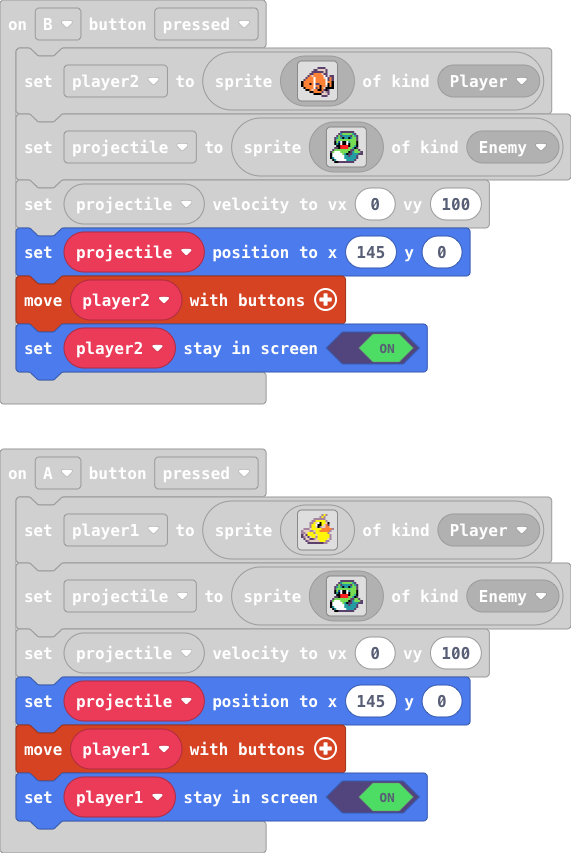
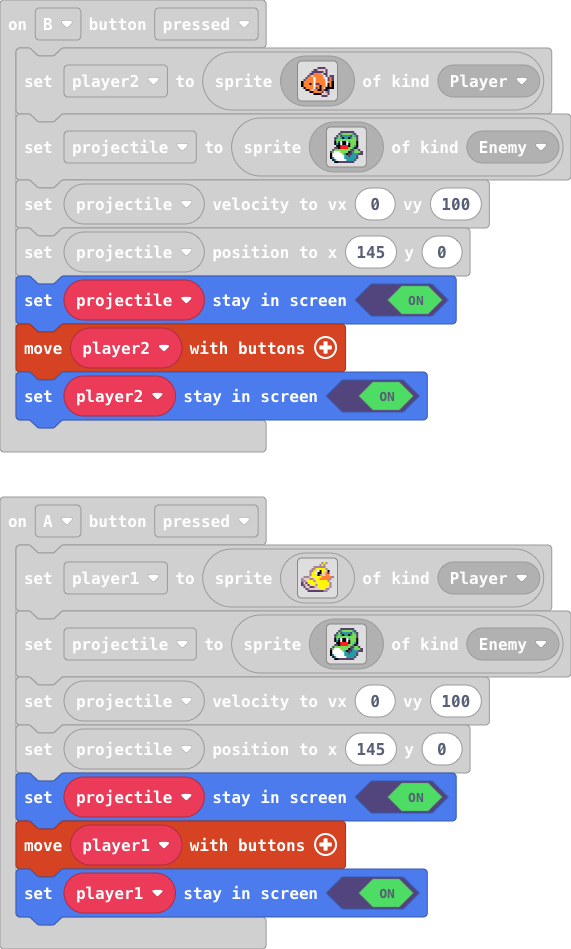
set projectile stay on screen

diff --git a/main.ts b/main.ts
@@ -37,6 +37,7 @@ controller.B.onEvent(ControllerButtonEvent.Pressed, function () {
         `, SpriteKind.Enemy)
     projectile.setVelocity(0, 100)
     projectile.setPosition(145, 0)
+    projectile.setStayInScreen(true)
     controller.moveSprite(player2)
     player2.setStayInScreen(true)
 })
@@ -79,6 +80,7 @@ controller.A.onEvent(ControllerButtonEvent.Pressed, function () {
         `, SpriteKind.Enemy)
     projectile.setVelocity(0, 100)
     projectile.setPosition(145, 0)
+    projectile.setStayInScreen(true)
     controller.moveSprite(player1)
     player1.setStayInScreen(true)
 })
